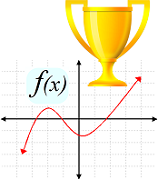
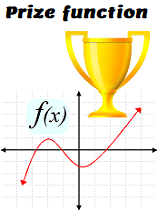
major revision/addition of illustration figures

diff --git a/publications.html b/publications.html
@@ -48,23 +48,23 @@
 	<li class="R" value=13><b>[ComMag'17]</b> Sustainable incentives for mobile crowdsensing: Auctions, lotteries, and trust and reputation systems [<a href="pub/ComMag17-sustainable-incentives-mobile-crowdsensing.pdf">pdf</a>] <font size=2>[DOI: <a style="text-decoration:none" href="http://dx.doi.org/10.1109/MCOM.2017.1600746CM"><font color=black>10.1109/MCOM.2017.1600746CM</font></a>]</font><br>
 		<b>T. Luo</b>, S. S. Kanhere, J. Huang, S. K. Das, and F. Wu<br>
 		<i>IEEE Communications Magazine</i>, vol. 55, no. 3, pp. 68-74, March 2017.<br><!--http://arxiv.org/abs/1701.00248-->
-		<img src="img/six-incentives.jpg" border=1><br><!--img src="img/winner-vs-all-pay300.png"-->
-		<font color=Gray>This <img src="img/survey.png" height="20"> survey paper provides a technical overview and analysis of <i>six</i> incentive mechanism design frameworks, namely auction, lottery, trust and reputation system, as well as bargaining game, contract theory, and market-driven mechanism.</font></li><p>
+		<img src="img/survey_vertical.png"> <img src="img/six-incentives.jpg"><br>
+		<font color=Gray>This survey paper provides a technical overview and analysis of <i>six</i> incentive mechanism design frameworks, namely auction, lottery, trust and reputation system, as well as bargaining game, contract theory, and market-driven mechanism.</font></li><p>
 
 	<a name=tist16 id=tist16></a>
 	<li class="R" value=12><b>[TIST'16]</b> Incentive mechanism design for crowdsourcing: an all-pay auction approach [<img src="http://dl.acm.org/images/oa.gif" width="25" height="25" style="vertical-align:middle"/><a href="http://dl.acm.org/authorize?N00519" title="Incentive Mechanism Design for Crowdsourcing: An All-Pay Auction Approach">ACM Lib</a>] [<a href="pub/TIST16-crowdsourcing-incentive-allpay-auction.pdf">pdf</a>] <font size=2>[DOI: <a style="text-decoration:none" href="http://dx.doi.org/10.1145/2837029"><font color=black>10.1145/2837029</font></a>]</font><br>
 		<!--a href="http://dl.acm.org/citation.cfm?id=2837029">ACM DL page</a-->
 		<b>T. Luo</b>, S. K. Das, H-P. Tan, and L. Xia<br>
 		<i>ACM Transactions on Intelligent Systems and Technology</i> (TIST), vol. 7, no. 3, pp. 35:1-26, February 2016.<br>
-		<img src="img/allpay_vs_winner240.png">(Table taken from <a href="#commag17">ComMag'17</a>)<br><!--img src="img/tist16-model-talknew.png" border=1-->
-		<font color=Gray>The most commonly used auctions for incentive mechanism design are <i>winner-pay auctions</i>, where only winners (highest bidders) need to pay (money or effort) for their bids (and be rewarded). On the contrary, <img src="img/allpay.png" height="20" style="vertical-align:middle"> <i>all-pay auctions</i> require every worker to pay regardless of who will win, while still rewarding the winners only. This appears to be rather unreasonable, but we show in this paper that all-pay auctions not only have several advantages over winner-pay auctions, but can also generate higher profit by using an <i>adaptive prize</i>.</font></li><p>
+		<img src="img/allpay_vs_winner240.png"> (table from <a href="#commag17">ComMag'17</a>)<br><!--img src="img/tist16-model-talknew.png" border=1-->
+		<font color=Gray>The most commonly used auctions for incentive mechanism design are <i>winner-pay auctions</i>, where only winners (highest bidders) need to pay (money or effort) for their bids (and be rewarded). On the contrary, <!--img src="img/allpay.png" height="20" style="vertical-align:middle"--><i>all-pay auctions</i> require every worker to pay regardless of who will win, while still rewarding the winners only. This appears to be rather unreasonable, but we show in this paper that all-pay auctions not only have several advantages over winner-pay auctions, but can also generate higher profit by using an <i>adaptive prize</i>.</font></li><p>
 		<!--"2-in-1" simplicity and risk-free of task non-fulfillment.--><!--a href="http://dl.acm.org/citation.cfm?id=2837029">ACM DL page</a-->
 
 	<a name=tmc16het id=tmc16het></a>
 	<li class="R" value=11><b>[TMC'16]</b> <!--img src="img/hetero.jpg" height="25"--> Incentive mechanism design for heterogeneous crowdsourcing using all-pay contests [<a href="pub/TMC16-heterogeneous-crowdsourcing-incentive-allpay-auction.pdf">pdf</a>] <font size=2>[DOI: <a style="text-decoration:none" href="http://dx.doi.org/10.1109/TMC.2015.2485978"><font color=black>10.1109/TMC.2015.2485978</font></a>]</font><br>
 		<b>T. Luo</b>, S. S. Kanhere, S. K. Das, and H-P. Tan<br>
 		<i>IEEE Transactions on Mobile Computing</i> (TMC), vol. 15, no. 9, pp. 2234-2246, September 2016.<br>
-		<img src="img/TMC16-model.png" border=1><br><!--img src="img/MASS14-model0-formal.png" border=1-->
+		<img src="img/heterogeneous_crowdsourcing.png"> <img src="img/hetero_label.png"> (see <a href="img/TMC16-model.png">model illustration</a>)<br><!--img src="img/MASS14-model0-formal.png" border=1-->
 		<!--http://ieeexplore.ieee.org/document/7287773/-->
 		<font color=Gray>Despite that crowdworkers are heterogeneous as we all know, its hardness in modeling and analysis restricts prior work to have adopted a homogeneous model which imposes a (single) common Bayesian belief on all the workers. This paper addresses this challenge by modeling the heterogeneity (each worker is associated with a different probability distribution) using an <i>asymmetric all-pay auction</i> with a prize tuple.</font></li><p>
 		<!--font color=Gray>Crowd workers are often <i>heterogeneous</i>, in the sense that not only their "types" (abilities, costs, etc.) are different, but the "beliefs" (distributional knowledge) about their types are also different. While this is a better (closer) model of the reality, it is more challenging to design corresponding incentive mechanisms. This paper addresses this challenge using an <i>asymmetric all-pay auction</i> augmented with a <i>prize tuple</i>. Moreover, we discover an interesting property of the incentive mechanism, called <i>strategy autonomy</i>, where each worker chooses a strategy with no need of worrying (reasoning) about what others will choose!</font></li><p-->
@@ -94,7 +94,7 @@
 	<li class="R" value=6><b>[COMNET'14]</b> Fairness and social welfare in service allocation schemes for participatory sensing [<a href="pub/ComNet14-service-allocation-stochastic-programming-participatory-sensing-incentive.pdf">pdf</a>] <font size=2>[DOI: <a style="text-decoration:none" href="https://doi.org/10.1016/j.comnet.2014.07.013"><font color=black>10.1016/j.comnet.2014.07.013</font></a>]</font><br>
 		C-K. Tham and <b>T. Luo</b><br>
 		<i>Computer Networks</i>, Elsevier, vol. 73, pp. 58-71, November 2014.<br>
-		<img border=1 src="img/ComNet14-model.png"> <!--img src="img/ComNet14-case1.png" height=220> &nbsp&nbsp <img src="img/ComNet14-case2.png" height=220--><br>
+		<!--img border=1 src="img/ComNet14-model.png"> <!--img src="img/ComNet14-case1.png" height=220> &nbsp&nbsp <img src="img/ComNet14-case2.png" height=220--><br>
 		<font color=Gray>Instead of using monetary or reputation-based incentives, this paper proposes a <i>resource-allocation approach</i> to incentivize crowdsensing. Specifically, it allocates each user certain "service quota" based on the amount of contribution the user makes and the service demands. For example, it can be applied to platforms that use crowdsensed data to provide information service about transport (e.g., bus ETA),environment (e.q., air quality index), and so forth.</font></li><p>
 		<!--br>[Extended work of SECON'12 paper (item 2 below).]-->
 
@@ -235,7 +235,7 @@
 	<li class="R" value=32><b>[ICC'18]</b> Distributed anomaly detection using autoencoder neural networks in WSN for IoT [<a href="pub/ICC18-iot-distributed-anomaly-detection-autoencoder-neural-networks.pdf">pdf</a>] [<a href="pub/ICC18-iot-distributed-anomaly-detection-autoencoder-neural-networks (slides).pdf">slides</a>] <font size=2>[DOI: <a style="text-decoration:none" href="https://ieeexplore.ieee.org/document/8422402/"><font color=black>10.1109/ICC.2018.8422402</font></a>]</font><br>
 		<b>T. Luo</b> and S. Nagarajan<br>
 		<i>IEEE International Conference on Communications</i> (ICC), May 2018.<br>
-		<img border=1 src="img/autoencoder_icc18_luo.png"><img border=1 src="img/arch_icc18_luo.png"><br>
+		<img src="img/autoencoder_icc18_luo.png"><img src="img/arch_icc18_luo.png"><br>
 		<font color=Gray>This paper is the first that introduces a deep learning model, <i>autoencoder neural networks</i> (ANN), into wireless sensor networks (WSN) to detect anomalies. It contradicts the general belief that "deep learning is not suitable for WSN" by "making deep learning (extremely) shallow" via constructing a neural network with only a single hidden layer. In addition, it allocates computation load through a two-part algorithm that has a complexity of only O(M<sup>2</sup>) on each sensor.</font></li><p>
 
 	<li class="R" value=31><b>[Globecom'17]</b> Reshaping mobile crowd sensing using cross validation to improve data credibility [<a href="pub/Globecom17-cross-validation-crowdsensing-data-credibility.pdf">pdf</a>] [<a href="pub/Globecom17-cross-validation (slides).pdf">slides</a>] <font size=2>[DOI: <a style="text-decoration:none" href="https://ieeexplore.ieee.org/document/8255050/"><font color=black>10.1109/GLOCOM.2017.8255050</font></a>]</font><br>
@@ -255,7 +255,7 @@
 	<li class="R" value=28><b>[INFOCOM'15]</b> <!--img src="img/lucky.png" height="20"--> Crowdsourcing with Tullock contests: A new perspective [<a href="pub/INFOCOM15-Crowdsourcing-Tullock-contests.pdf">pdf</a>] <font size=2>[DOI: <a style="text-decoration:none" href="http://dx.doi.org/10.1109/INFOCOM.2015.7218641"><font color=black>10.1109/INFOCOM.2015.7218641</font></a>]</font><br>
 		<b>T. Luo</b>, S. S. Kanhere, H-P. Tan, F. Wu, and H. Wu<br>
 		<i>The 34th IEEE International Conference on Computer Communications</i> (INFOCOM), April 2015, pp. 2515-2523.<br>
-		<img src="img/auction_vs_lottery350.png"> (Table taken from <a href="#commag17">ComMag'17</a>)<br>
+		<img src="img/auction_vs_lottery350.png"> (table from <a href="#commag17">ComMag'17</a>)<br>
 		<i>Acceptance rate: 19%</i><br>
 		<b><font color=red>Best Paper Award nominee</font></b><br><!--(0.3%; 5 out of 1640)-->
 		<font color=Gray>What is a Tullock contest? Think it as a lucky draw! While auctions have dominated the realm of mechanism design for decades, this paper suggests Tullock contests as an alternative mechanism that is more appealing to "ordinary" participants. Tullock contests distinguish themselves from auctions in being <i>imperfectly discriminating</i>: "You always have a chance to win, no matter how 'weak' you are." This feature is particularly desirable for, e.g., large-scale crowdsensing.</font></li><p>
@@ -279,7 +279,7 @@
 	<li class="R" value=24><b>[ICC'15]</b> An efficient and truthful pricing mechanism for team formation in crowdsourcing markets [<a href="pub/ICC15-TruTeam-team-crowdsourcing.pdf">pdf</a>] <font size=2>[DOI: <a style="text-decoration:none" href="http://dx.doi.org/10.1109/ICC.2015.7248382"><font color=black>10.1109/ICC.2015.7248382</font></a>]</font><br>
 		Q. Liu, <b>T. Luo</b>, R. Tang, and S. Bressan<br>
 		<i>IEEE International Conference on Communications</i> (ICC), June 2015, pp. 567-572.<br>
-		<img src="img/form-team.jpg"> <img border=1 src="img/collaborative-crowdsourcing.jpg"><br>
+		<img src="img/collaborative_crowdsourcing.png"> <img height=100 src="img/form-team.jpg"><br>
 		<!--i>Acceptance rate: 38% (1283 out of 3342)</i-->
 		<font color=Gray>How to form a team in collaborative crowdsourcing? This paper is the first work that addresses this problem. We design an incentive mechanism called <i>TruTeam</i> to form the "best" team for a cooperative task. We provide theoretical guarantee of its profitability, individual rationality, computational efficiency, and truthfulness.</font></li><p>
 
@@ -323,7 +323,7 @@
 	<li class="R" value=16><b>[INFOCOM'14]</b> Profit-maximizing incentive for participatory sensing [<a href="pub/INFOCOM14-profit-maximizing-incentive-participatory-sensing.pdf">pdf</a>] [Much enhanced version: <a href="#tist16">ACM TIST'16</a>]<br>
 		<b>T. Luo</b>, H-P. Tan, and L. Xia<br>
 		<i>The 33rd IEEE International Conference on Computer Communications</i> (INFOCOM), April 2014, pp. 127-135.<br><!--Toronto, Canada. Apr 27 - May 2-->
-		<img border=1 src="img/infocom14-model-talknew.png"> <img src="img/Infocom-prize-function.png"><br>
+		<img src="img/allpay_plus.png"><img src="img/Infocom-prize-function.png"> (see <a href="img/infocom14-model-talknew.png">model illustration</a>)<br>
 		<i>Acceptance rate: 19% (319 out of 1650)</i></li><p>
 
 	<li class="R" value=15>A generic participatory sensing framework for multi-modal datasets [<a href="pub/ISSNIP14-Generic-Participatory-Sensing-Framework.pdf">pdf</a>]<br>

diff --git a/index.html b/index.html
@@ -119,7 +119,7 @@ Earlier:
 	<li><b>[ICC'18]</b> Distributed anomaly detection using autoencoder neural networks in WSN for IoT [<a href="pub/ICC18-iot-distributed-anomaly-detection-autoencoder-neural-networks.pdf">pdf</a>] [<a href="pub/ICC18-iot-distributed-anomaly-detection-autoencoder-neural-networks (slides).pdf">slides</a>] <font size=2>[DOI: <a style="text-decoration:none" href="https://ieeexplore.ieee.org/document/8422402/"><font color=black>10.1109/ICC.2018.8422402</font></a>]</font><br><!--img src="img/new.gif" height=30></img-->
 		<b>T. Luo</b> and S. Nagarajan<br>
 		<i>IEEE International Conference on Communications</i> (ICC), May 2018.<br>
-		<img border=1 src="img/autoencoder_icc18_luo.png"><img border=1 src="img/arch_icc18_luo.png"><br>
+		<img src="img/autoencoder_icc18_luo.png"><img src="img/arch_icc18_luo.png"><br>
 		<font color=Gray>This paper is the first that introduces a deep learning model, <i>autoencoder neural networks</i> (ANN), into wireless sensor networks (WSN) to detect anomalies. It contradicts the general belief that "deep learning is not suitable for WSN" by "making deep learning (extremely) shallow" via constructing a neural network with only a single hidden layer. In addition, it allocates computation load through a two-part algorithm that has a complexity of only O(M<sup>2</sup>) on each sensor.</font></li><p>
 
 	<li><b>[Globecom'17]</b> Reshaping mobile crowd sensing using cross validation to improve data credibility [<a href="pub/Globecom17-cross-validation-crowdsensing-data-credibility.pdf">pdf</a>] [<a href="pub/Globecom17-cross-validation (slides).pdf">slides</a>] <font size=2>[DOI: <a style="text-decoration:none" href="https://ieeexplore.ieee.org/document/8255050/"><font color=black>10.1109/GLOCOM.2017.8255050</font></a>]</font><br>
@@ -127,32 +127,33 @@ Earlier:
 		<i>IEEE Global Communications Conference</i> (GLOBECOM), December 2017.<br>
 		<font color=Gray>This paper proposes a cross-validation approach which seeks a <i>validating crowd</i> to validate the <i>contributing crowd</i> on the quality of data contributed by the latter. A specific cross-validation mechanism is designed to reshape the original, noisy crowdsensed data into a more credible posterior belief of the ground truth. It achieves two "incompatible" goals simultaneously: (1) reinforce obscure truth and (2) discover hidden truth.</font></li><p>
 
+	<a name=commag17 id=commag17></a>
 	<li><b>[ComMag'17]</b> Sustainable incentives for mobile crowdsensing: Auctions, lotteries, and trust and reputation systems [<a href="pub/ComMag17-sustainable-incentives-mobile-crowdsensing.pdf">pdf</a>] <font size=2>[DOI: <a style="text-decoration:none" href="http://dx.doi.org/10.1109/MCOM.2017.1600746CM"><font color=black>10.1109/MCOM.2017.1600746CM</font></a>]</font><br>
 		<b>T. Luo</b>, S. S. Kanhere, J. Huang, S. K. Das, and F. Wu<br>
 		<i>IEEE Communications Magazine</i>, vol. 55, no. 3, pp. 68-74, March 2017.<br><!--http://arxiv.org/abs/1701.00248-->
-		<img src="img/six-incentives.jpg" border=1><br>
-		<font color=Gray>This <img src="img/survey.png" height="20"> survey paper provides a technical overview and analysis of six incentive mechanism design frameworks, namely auction, lottery, trust and reputation system, as well as bargaining game, contract theory, and market-driven mechanism.</font></li><p>
+		<img src="img/survey_vertical.png"> <img src="img/six-incentives.jpg"><br>
+		<font color=Gray>This survey paper provides a technical overview and analysis of six incentive mechanism design frameworks, namely auction, lottery, trust and reputation system, as well as bargaining game, contract theory, and market-driven mechanism.</font></li><p>
 
 	<a name=tist16 id=tist16></a>
 	<li><b>[TIST'16]</b> <!--img src="img/allpay.png" height="20" style="vertical-align:middle"--> Incentive mechanism design for crowdsourcing: an all-pay auction approach [<img src="http://dl.acm.org/images/oa.gif" width="25" height="25" style="vertical-align:middle"/><a href="http://dl.acm.org/authorize?N00519" title="Incentive Mechanism Design for Crowdsourcing: An All-Pay Auction Approach">ACM Lib</a>] [<a href="pub/TIST16-crowdsourcing-incentive-allpay-auction.pdf">pdf</a>] <font size=2>[DOI: <a style="text-decoration:none" href="http://dx.doi.org/10.1145/2837029"><font color=black>10.1145/2837029</font></a>]</font><br>
 		<b>T. Luo</b>, S. K. Das, H-P. Tan, and L. Xia<br>
 		<i>ACM Transactions on Intelligent Systems and Technology</i> (TIST), vol. 7, no. 3, pp. 35:1-26, February 2016.<br>
-		<img src="img/allpay_vs_winner240.png"><br>
-		<font color=Gray>The most commonly used auctions for incentive mechanism design are <i>winner-pay auctions</i>, where only winners (highest bidders) need to pay (money or effort) for their bids (and be rewarded). On the contrary, <img src="img/allpay.png" height="20" style="vertical-align:middle"> <i>all-pay auctions</i> require every worker to pay regardless of who will win, while still rewarding the winners only. This appears to be rather unreasonable, but we show in this paper that all-pay auctions not only have several advantages over winner-pay auctions, but can also generate higher profit by using an <i>adaptive prize</i>.</font></li><p>
+		<img src="img/allpay_vs_winner240.png"> (table from <a href="#commag17">ComMag'17</a>)<br>
+		<font color=Gray>The most commonly used auctions for incentive mechanism design are <i>winner-pay auctions</i>, where only winners (highest bidders) need to pay (money or effort) for their bids (and be rewarded). On the contrary, <!--img src="img/allpay.png" height="20" style="vertical-align:middle"--><i>all-pay auctions</i> require every worker to pay regardless of who will win, while still rewarding the winners only. This appears to be rather unreasonable, but we show in this paper that all-pay auctions not only have several advantages over winner-pay auctions, but can also generate higher profit by using an <i>adaptive prize</i>.</font></li><p>
 		<!--"2-in-1" simplicity and risk-free of task non-fulfillment.--><!--a href="http://dl.acm.org/citation.cfm?id=2837029">ACM DL page</a-->
 
 	<a name=tmc16het id=tmc16het></a>
 	<li><b>[TMC'16]</b> <!--img src="img/hetero.jpg" height="25"--> Incentive mechanism design for heterogeneous crowdsourcing using all-pay contests [<a href="pub/TMC16-heterogeneous-crowdsourcing-incentive-allpay-auction.pdf">pdf</a>] <font size=2>[DOI: <a style="text-decoration:none" href="http://dx.doi.org/10.1109/TMC.2015.2485978"><font color=black>10.1109/TMC.2015.2485978</font></a>]</font><br>
 		<b>T. Luo</b>, S. S. Kanhere, S. K. Das, and H-P. Tan<br>
 		<i>IEEE Transactions on Mobile Computing</i> (TMC), vol. 15, no. 9, pp. 2234-2246, September 2016.<br>
-		<!--<img src="img/TMC16-model.png" border=1> <img src="img/MASS14-model0-formal.png" border=1><br><!--TMC16-eval.png-->
+		<img src="img/heterogeneous_crowdsourcing.png"> <img src="img/hetero_label.png"> (see <a href="img/TMC16-model.png">model illustration</a>)<br>
 		<font color=Gray>Despite that crowdworkers are heterogeneous as we all know, its hardness in modeling and analysis restricts prior work to have adopted a homogeneous model which imposes a (single) common Bayesian belief on all the workers. This paper addresses this challenge by modeling the heterogeneity (each worker is associated with a different probability distribution) using an <i>asymmetric all-pay auction</i> with a prize tuple.</font></li><p>
 		<!--font color=Gray>Crowd workers are often <i>heterogeneous</i>, in the sense that not only their "types" (abilities, costs, etc.) are different, but the "beliefs" (distributional knowledge) about their types are also different. While this is a better (closer) model of the reality, it is more challenging to design corresponding incentive mechanisms. This paper addresses this challenge using an <i>asymmetric all-pay auction</i> augmented with a <i>prize tuple</i>. Moreover, we discover an interesting property of the incentive mechanism, called <i>strategy autonomy</i>, where each worker chooses a strategy with no need of worrying (reasoning) about what others will choose!</font></li><p-->
 
 	<li><b>[INFOCOM'15]</b> <!--img src="img/lucky.png" height="20"--> Crowdsourcing with Tullock contests: A new perspective [<a href="pub/INFOCOM15-Crowdsourcing-Tullock-contests.pdf">pdf</a>] <font size=2>[DOI: <a style="text-decoration:none" href="http://dx.doi.org/10.1109/INFOCOM.2015.7218641"><font color=black>10.1109/INFOCOM.2015.7218641</font></a>]</font><br>
 		<b>T. Luo</b>, S. S. Kanhere, H-P. Tan, F. Wu, and H. Wu<br>
 		<i>The 34th IEEE International Conference on Computer Communications</i> (INFOCOM), April 2015, pp. 2515-2523.<br>
-		<img src="img/auction_vs_lottery350.png"><br>
+		<img src="img/auction_vs_lottery350.png"> (table from <a href="#commag17">ComMag'17</a>)<br>
 		<i>Acceptance rate: 19%</i><br>
 		<font color=mediumblue><b>Best Paper Award nominee</b></font><br><!--(0.3%; 5 out of 1640)-->
 		<font color=Gray>What is a Tullock contest? Think it as a lucky draw! While auctions have dominated the realm of mechanism design for decades, this paper suggests Tullock contests as an alternative mechanism that is more appealing to "ordinary" participants. Tullock contests distinguish themselves from auctions in being <i>imperfectly discriminating</i>: "You always have a chance to win, no matter how 'weak' you are." This feature is particularly desirable for, e.g., large-scale crowdsensing.</font></li><p>
@@ -191,7 +192,7 @@ Earlier:
 	<li><b>[INFOCOM'14]</b> Profit-maximizing incentive for participatory sensing [<a href="pub/INFOCOM14-profit-maximizing-incentive-participatory-sensing.pdf">pdf</a>] [Much enhanced version: <a href="#tist16">ACM TIST'16</a>]<br>
 		<b>T. Luo</b>, H-P. Tan, and L. Xia<br>
 		<i>The 33rd IEEE International Conference on Computer Communications</i> (INFOCOM), April 2014, pp. 127-135.<br><!--Toronto, Canada. Apr 27 - May 2-->
-		<!--<img src="img/infocom14-model-talknew260.png" border=1><br-->
+		<img src="img/allpay_plus.png"><img src="img/Infocom-prize-function.png"> (see <a href="img/infocom14-model-talknew.png">model illustration</a>)<br>
 		<i>Acceptance rate: 19% (319 out of 1650)</i></li><p>
 
 	<li>Enhancing Responsiveness and Scalability for OpenFlow Networks via Control-Message Quenching [<a href="pub/ICTC12-OpenFlow-performance.pdf">pdf</a>]<br>
